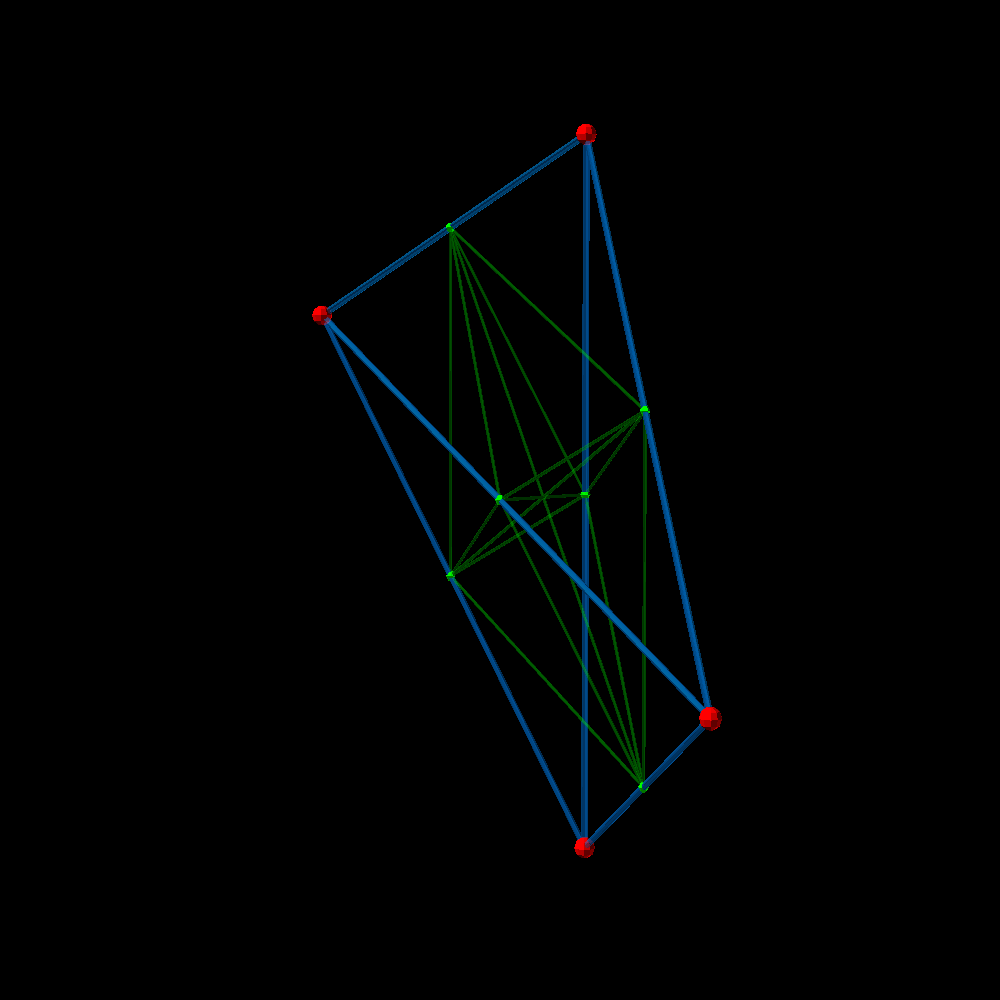
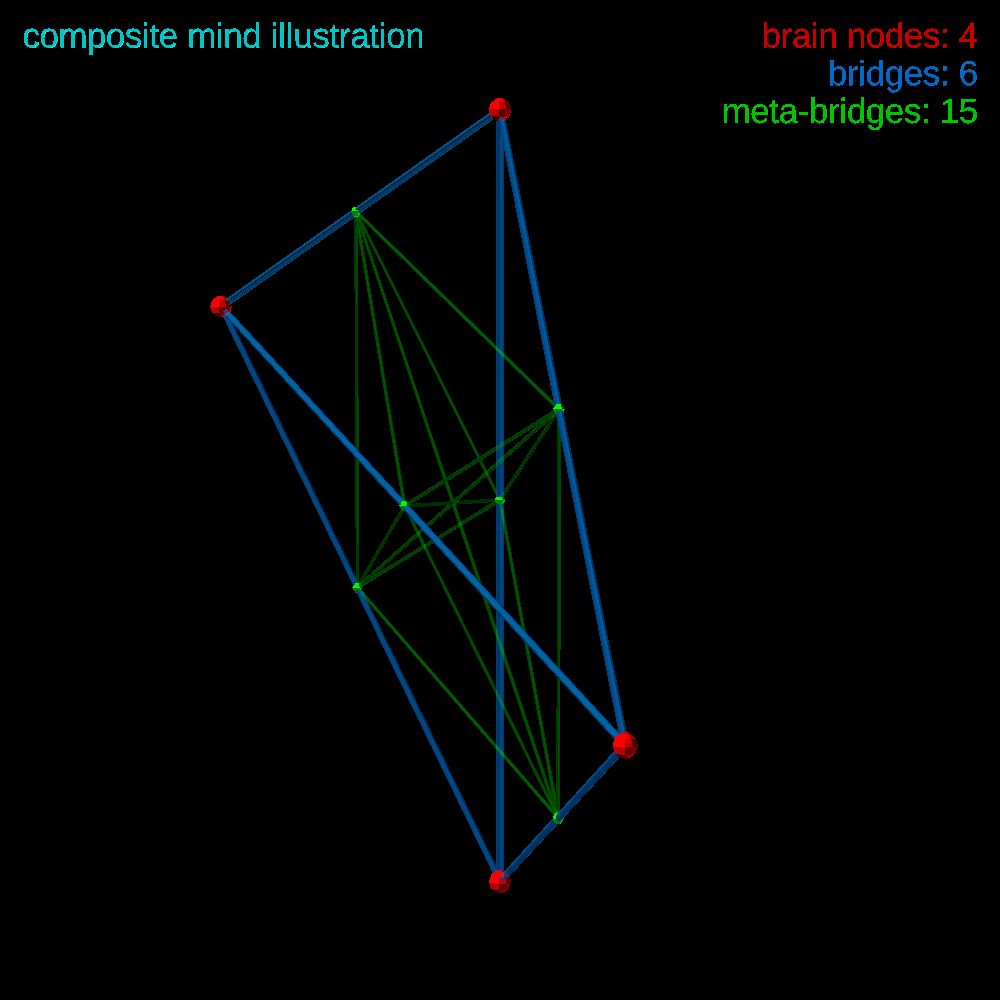
cognitive upscaling details and illustrations
- specified the size of a bridge relative to size of a brain node
- updated the openscad model such that it now places text on the image
- rendered many more expample illustrations of composite minds

diff --git a/pages/cognitive_upscaling.html b/pages/cognitive_upscaling.html
@@ -62,9 +62,8 @@ To ease that, the bridges themselves are also bridged with each other with more 
 This basic arrangement where every brain node is connected to every other brain node by a bridge, and each bridge is connected to every other bridge with a meta-bridge, appears to very reliably allow a stable composite mind to form, leaving the real bulk of the work being just to pick the correct AI model for the brain node, the bridge and the meta bridge, and tune their configuration if there is any.
 The problem with this arrangement is how fast the number of links grows, the table below illustrates this.
 Generally it is said that the number of sub-networks in such a mind grows with O(n<sup>4</sup>) of the number of brain nodes.
-Images also attached showing the structure of composite minds with 3 and 4 brain nodes.
+Image also attached for illustration.
 <br>
-<img src="../images/composite_mind_3.webp" class="styled right"></img>
 <img src="../images/composite_mind_4.webp" class="styled right"></img>
 <table class="styled">
 <tr><th>brain nodes</th><th>bridges</th><th>meta-bridges</th></tr>
@@ -92,9 +91,19 @@ function bridgecalc(){
 }
 </script>
 
-Worse yet, this is actually expected to be a recursive problem where at some point further down the line meta-meta-meta-bridges become necessary and so on, bumping the complexity to O(n<sup>8</sup>).
+Worse yet, this is actually expected to be a recursive problem where at some point further down the line meta-meta-bridges become necessary and so on, bumping the complexity to O(n<sup>8</sup>).
 As of now this is very sparsely explored territory, as such minds have absolutely cataclysmic computational requirements and at that point it is easier to just explore novel architectures or at least novel arrangements of brain nodes and various levels of bridges that do not necessarily connect every single one to every other one.
+<br><br>
+The choice of what exact translator models to use as bridges has a lot of nuance, but as a very common occurrence <b>a bridge is 1/215th the size of a brain node</b>, as that is roughly the comparison between one hemisphere of the human brain and the corpus callosum which links the two hemispheres together.
+<br><br>
+Below you can see more illustrative renders of the structure of composite minds adhering to this pattern at different levels of complexity.
 </article>
+<img src="../images/composite_mind_3.webp" class="styled left cardsize"></img>
+<img src="../images/composite_mind_4.webp" class="styled left cardsize"></img>
+<img src="../images/composite_mind_6.webp" class="styled left cardsize"></img>
+<img src="../images/composite_mind_8.webp" class="styled left cardsize"></img>
+<img src="../images/composite_mind_16.webp" class="styled left cardsize"></img>
+<img src="../images/composite_mind_24.webp" class="styled left cardsize"></img>
 
 <br>
 <h1 class="division">relevant pages</h1>
